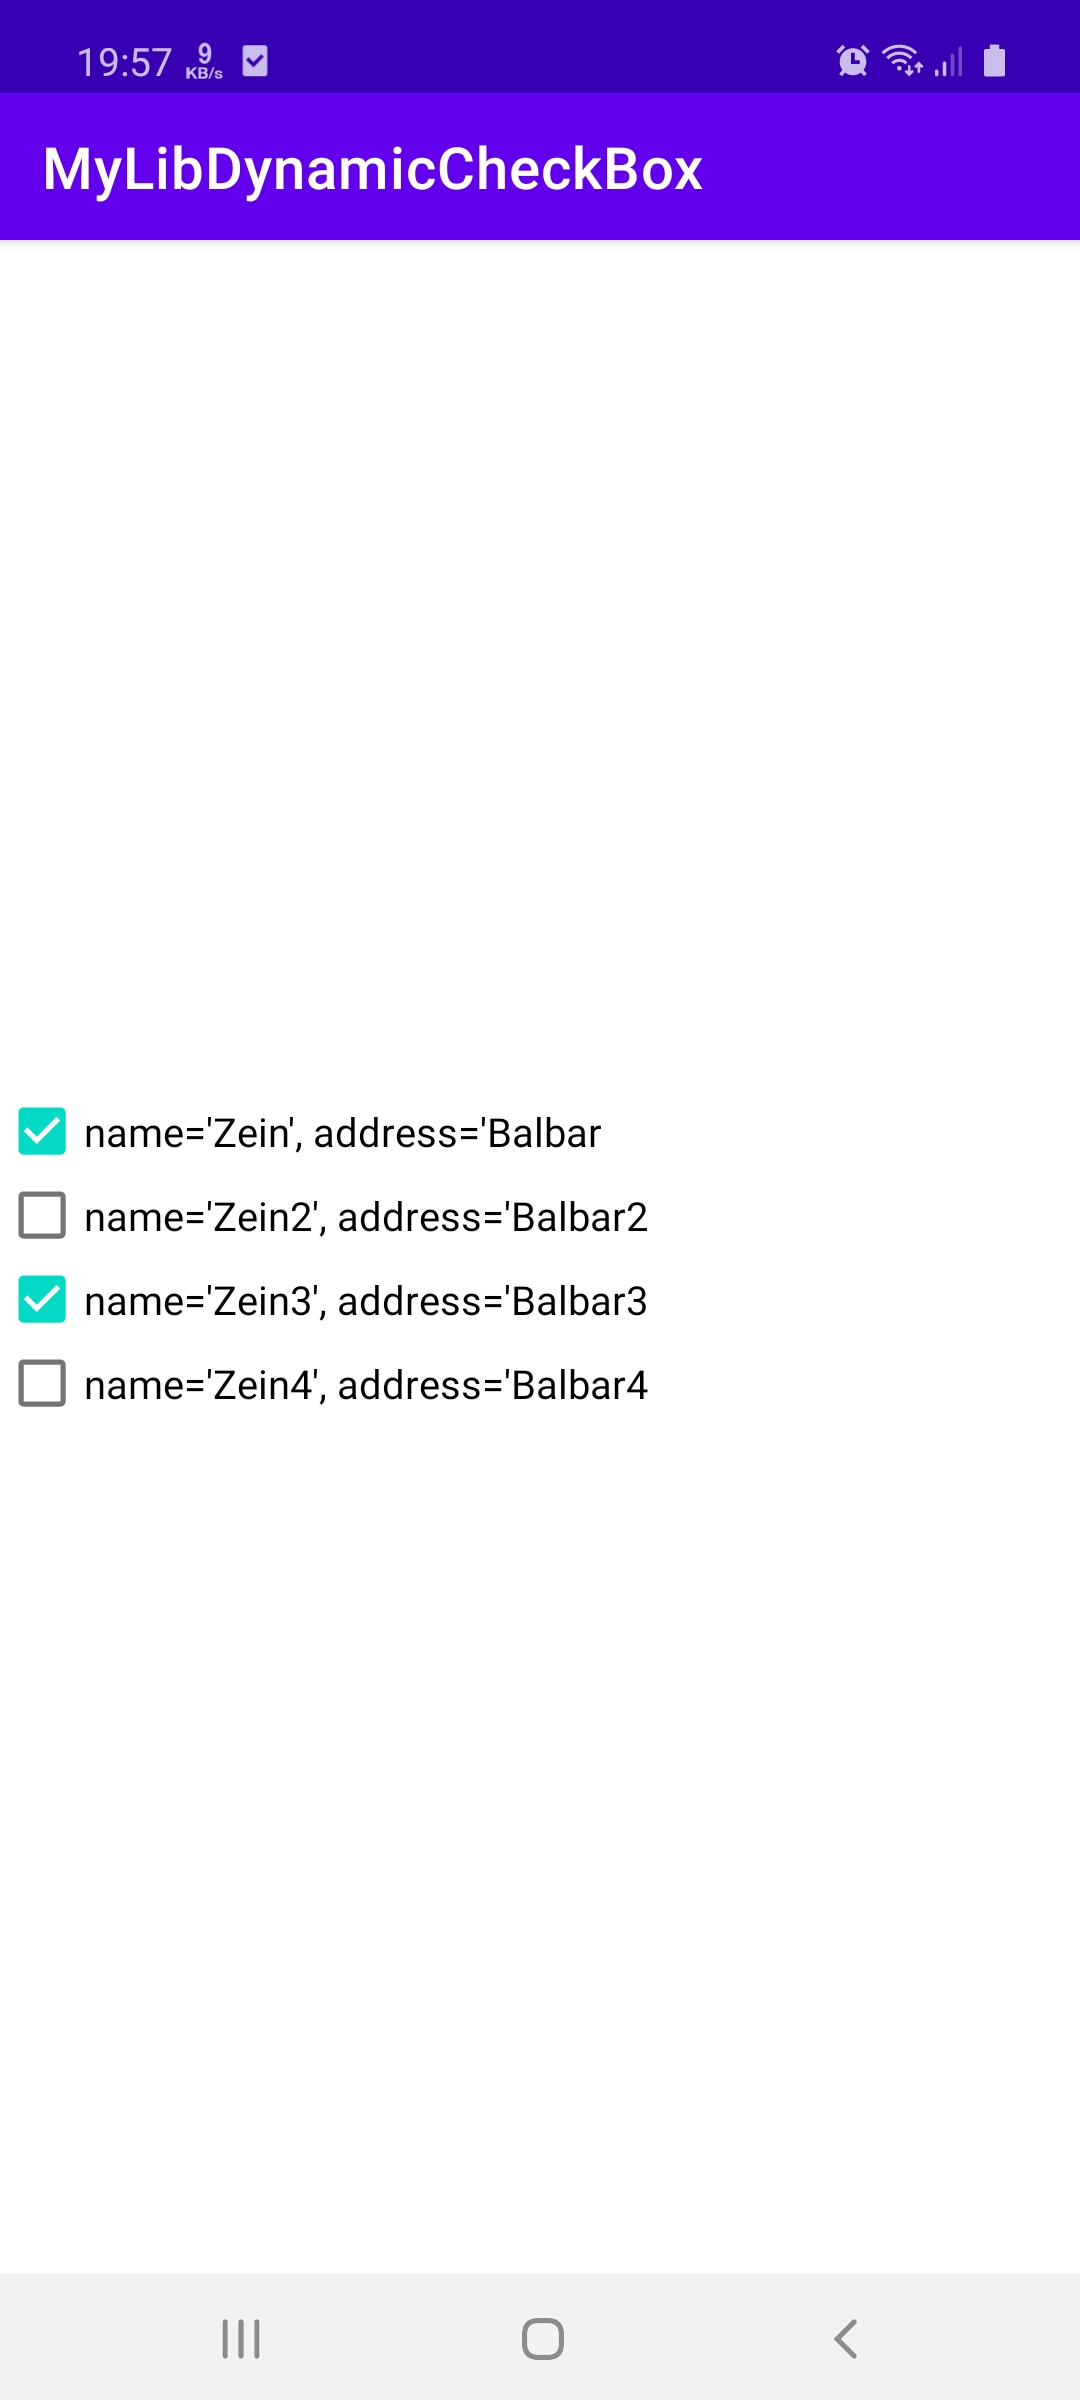
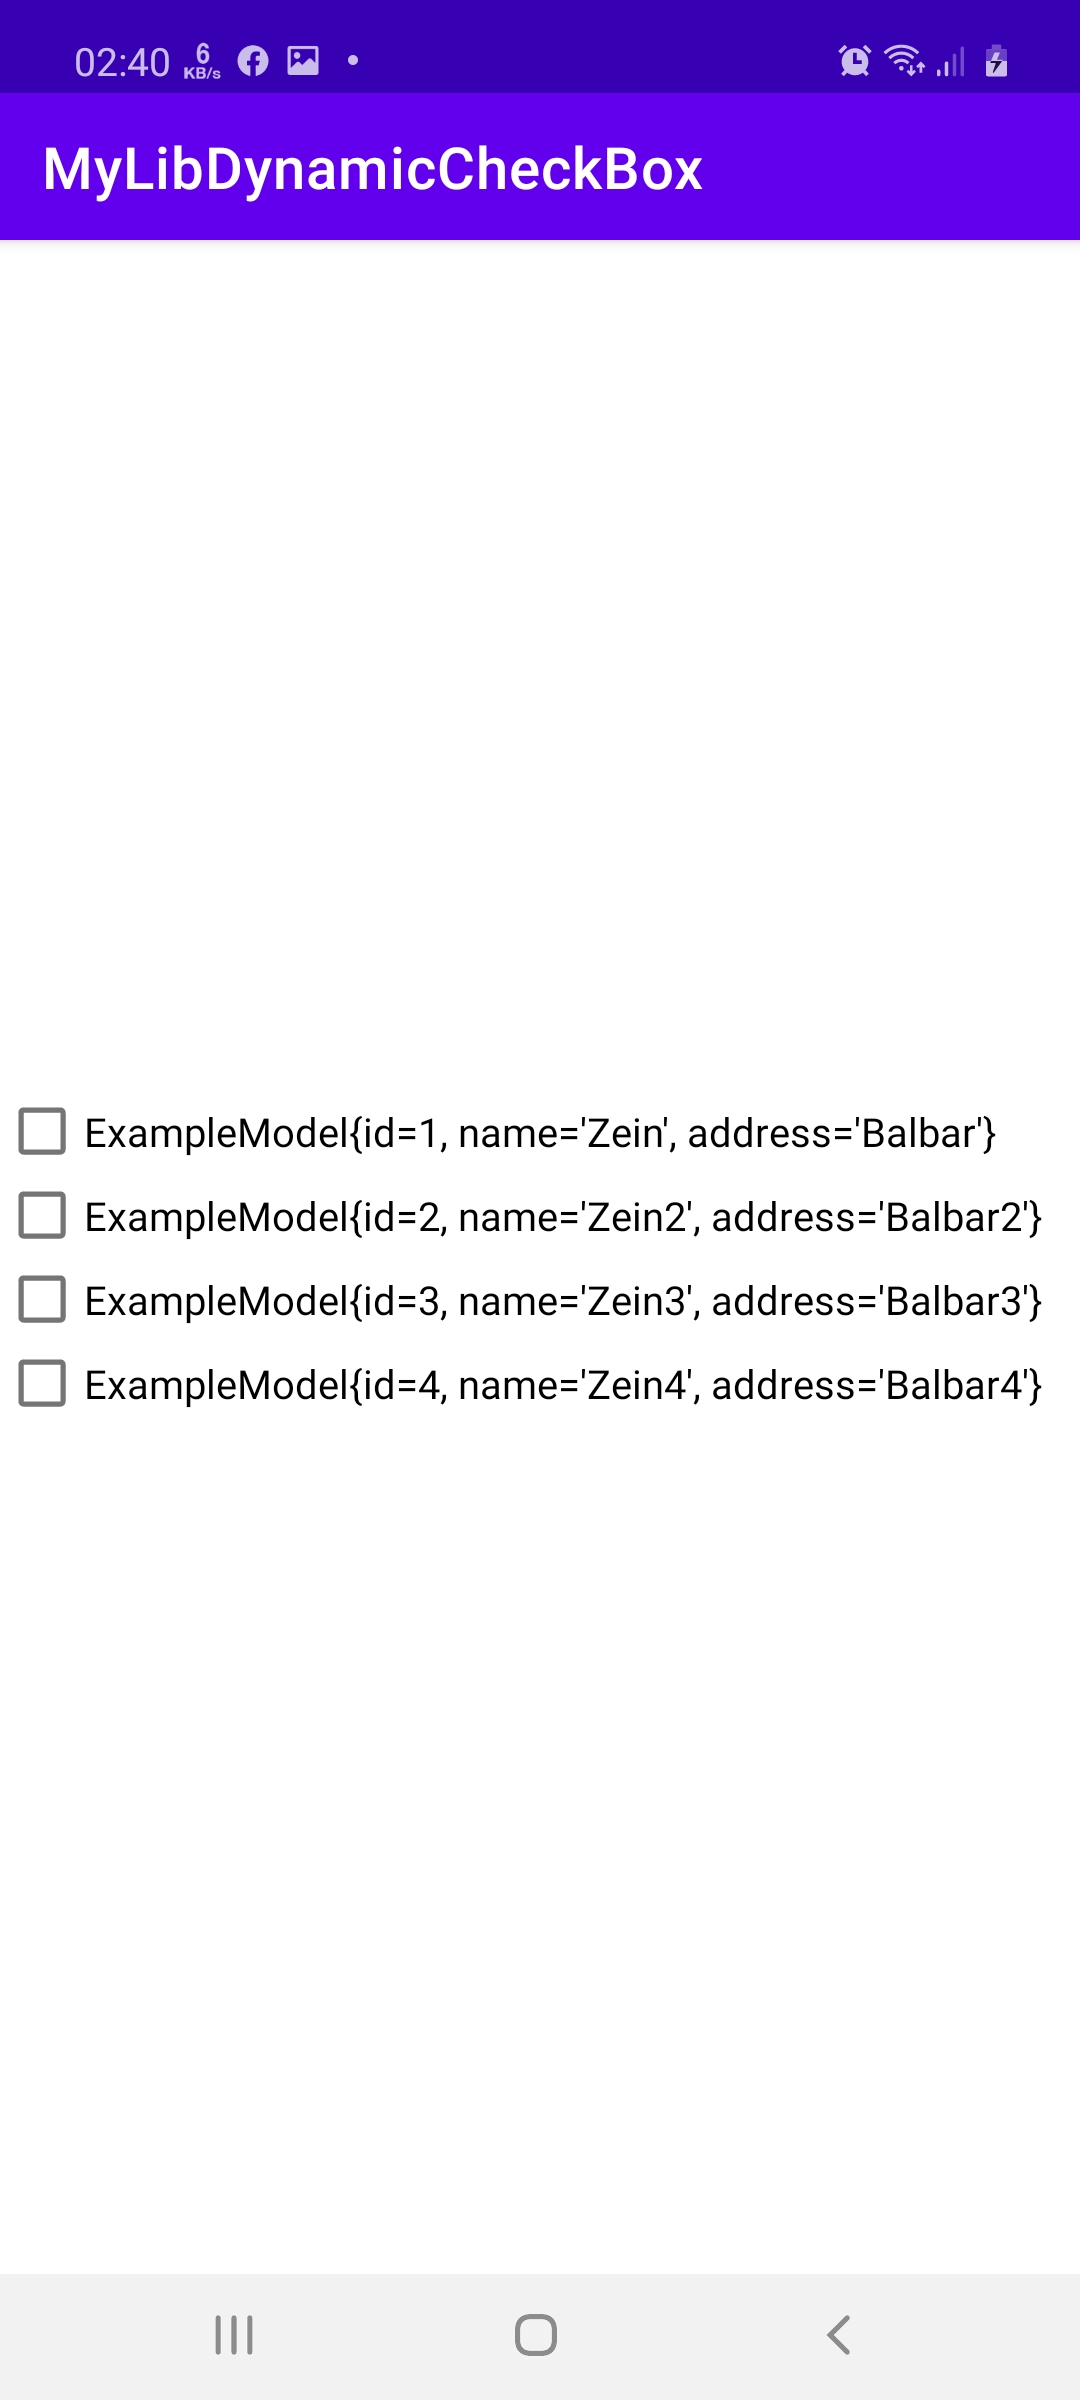
README.md

diff --git a/app/src/main/java/com/gzeinnumer/mylibdynamiccheckbox/ExampleModel.java b/app/src/main/java/com/gzeinnumer/mylibdynamiccheckbox/ExampleModel.java
@@ -38,7 +38,10 @@ public class ExampleModel {
 
     @Override
     public String toString() {
-        return "name='" + name + '\'' +
-                ", address='" + address;
+        return "ExampleModel{" +
+                "id=" + id +
+                ", name='" + name + '\'' +
+                ", address='" + address + '\'' +
+                '}';
     }
 }

diff --git a/README.md b/README.md
@@ -81,6 +81,11 @@ if you want to custom your `CheckBox` use `app:style="@style/checkBoxStyle"` on 
     </style>
 </resources>
 ```
+```xml
+<com.gzeinnumer.mylibdynamiccheckbox.DynamicCheckBox
+    ...
+    app:style="@style/checkBoxStyle"/>
+```
 
 - **Content Item** there is 2 type of is that you can sent to this `CheckBox`.
 
@@ -131,7 +136,7 @@ public class ExampleModel {
     }
 }
 ```
-Use your own model. And dont forget to declare your `model pojo` `onCallBack` example `DynamicCheckBox.OnCheckedChangeListener<ExampleModel>`
+Use your own model. And dont forget to declare your `model pojo` in `onCallBack` example `DynamicCheckBox.OnCheckedChangeListener<ExampleModel>`
 ```java
 DynamicCheckBox dynamicCheckBox = findViewById(R.id.dc);
 
@@ -162,8 +167,14 @@ dynamicCheckBox.setItemList(listObject).setOnCheckedChangeListener(new DynamicCh
 | <img src="https://github.com/gzeinnumer/MyLibDynamicCheckBox/blob/master/preview/example1.jpg"/>| <img src="https://github.com/gzeinnumer/MyLibDynamicCheckBox/blob/master/preview/example3.jpg"/> |
 |:---|:---|
 | Preview `Single Object`| Preview `Model Pojo`|
-| <img src="https://github.com/gzeinnumer/MyLibDynamicCheckBox/blob/master/preview/example2.jpg"/> | <img src="https://github.com/gzeinnumer/MyLibDynamicCheckBox/blob/master/preview/example4.jpg"/> |
-| Output data `Single Object`| Output data `Model Pojo`|
+
+| <img src="https://github.com/gzeinnumer/MyLibDynamicCheckBox/blob/master/preview/example2.jpg"/> |
+|:---|
+| Output data `Single Object`|
+
+| <img src="https://github.com/gzeinnumer/MyLibDynamicCheckBox/blob/master/preview/example4.jpg"/> |
+|:---|
+|  Output data `Model Pojo`|
 
 ---
 
